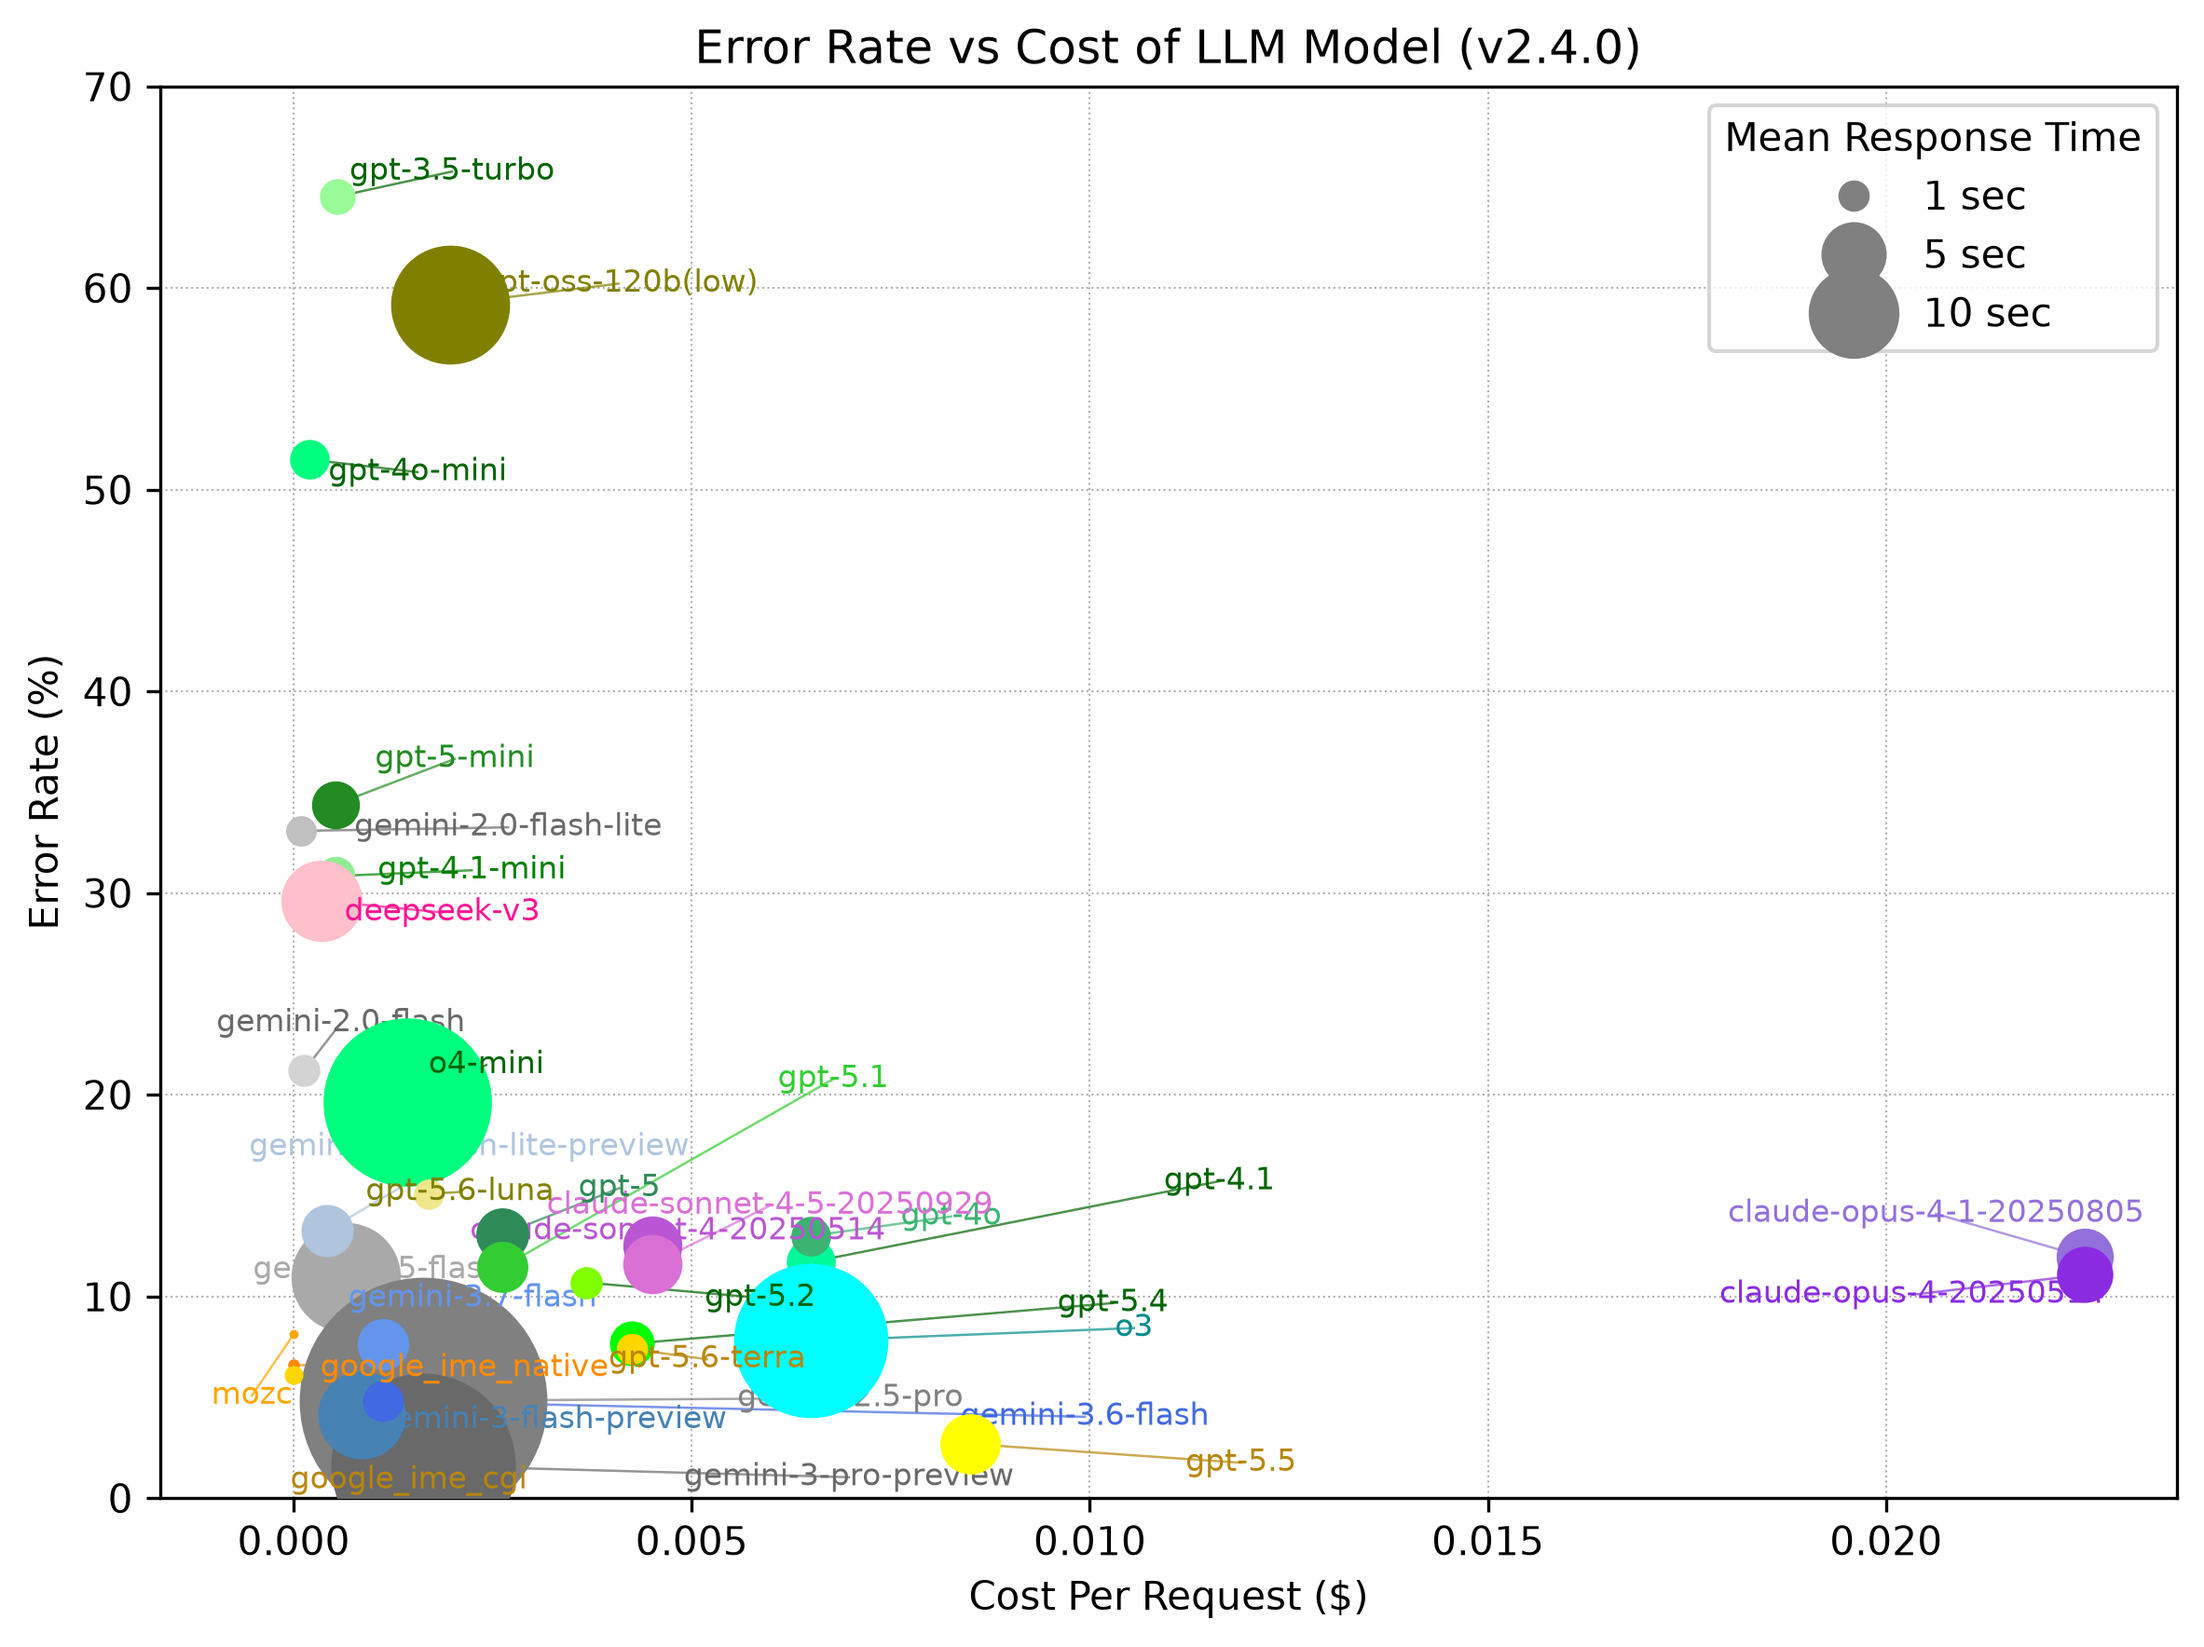
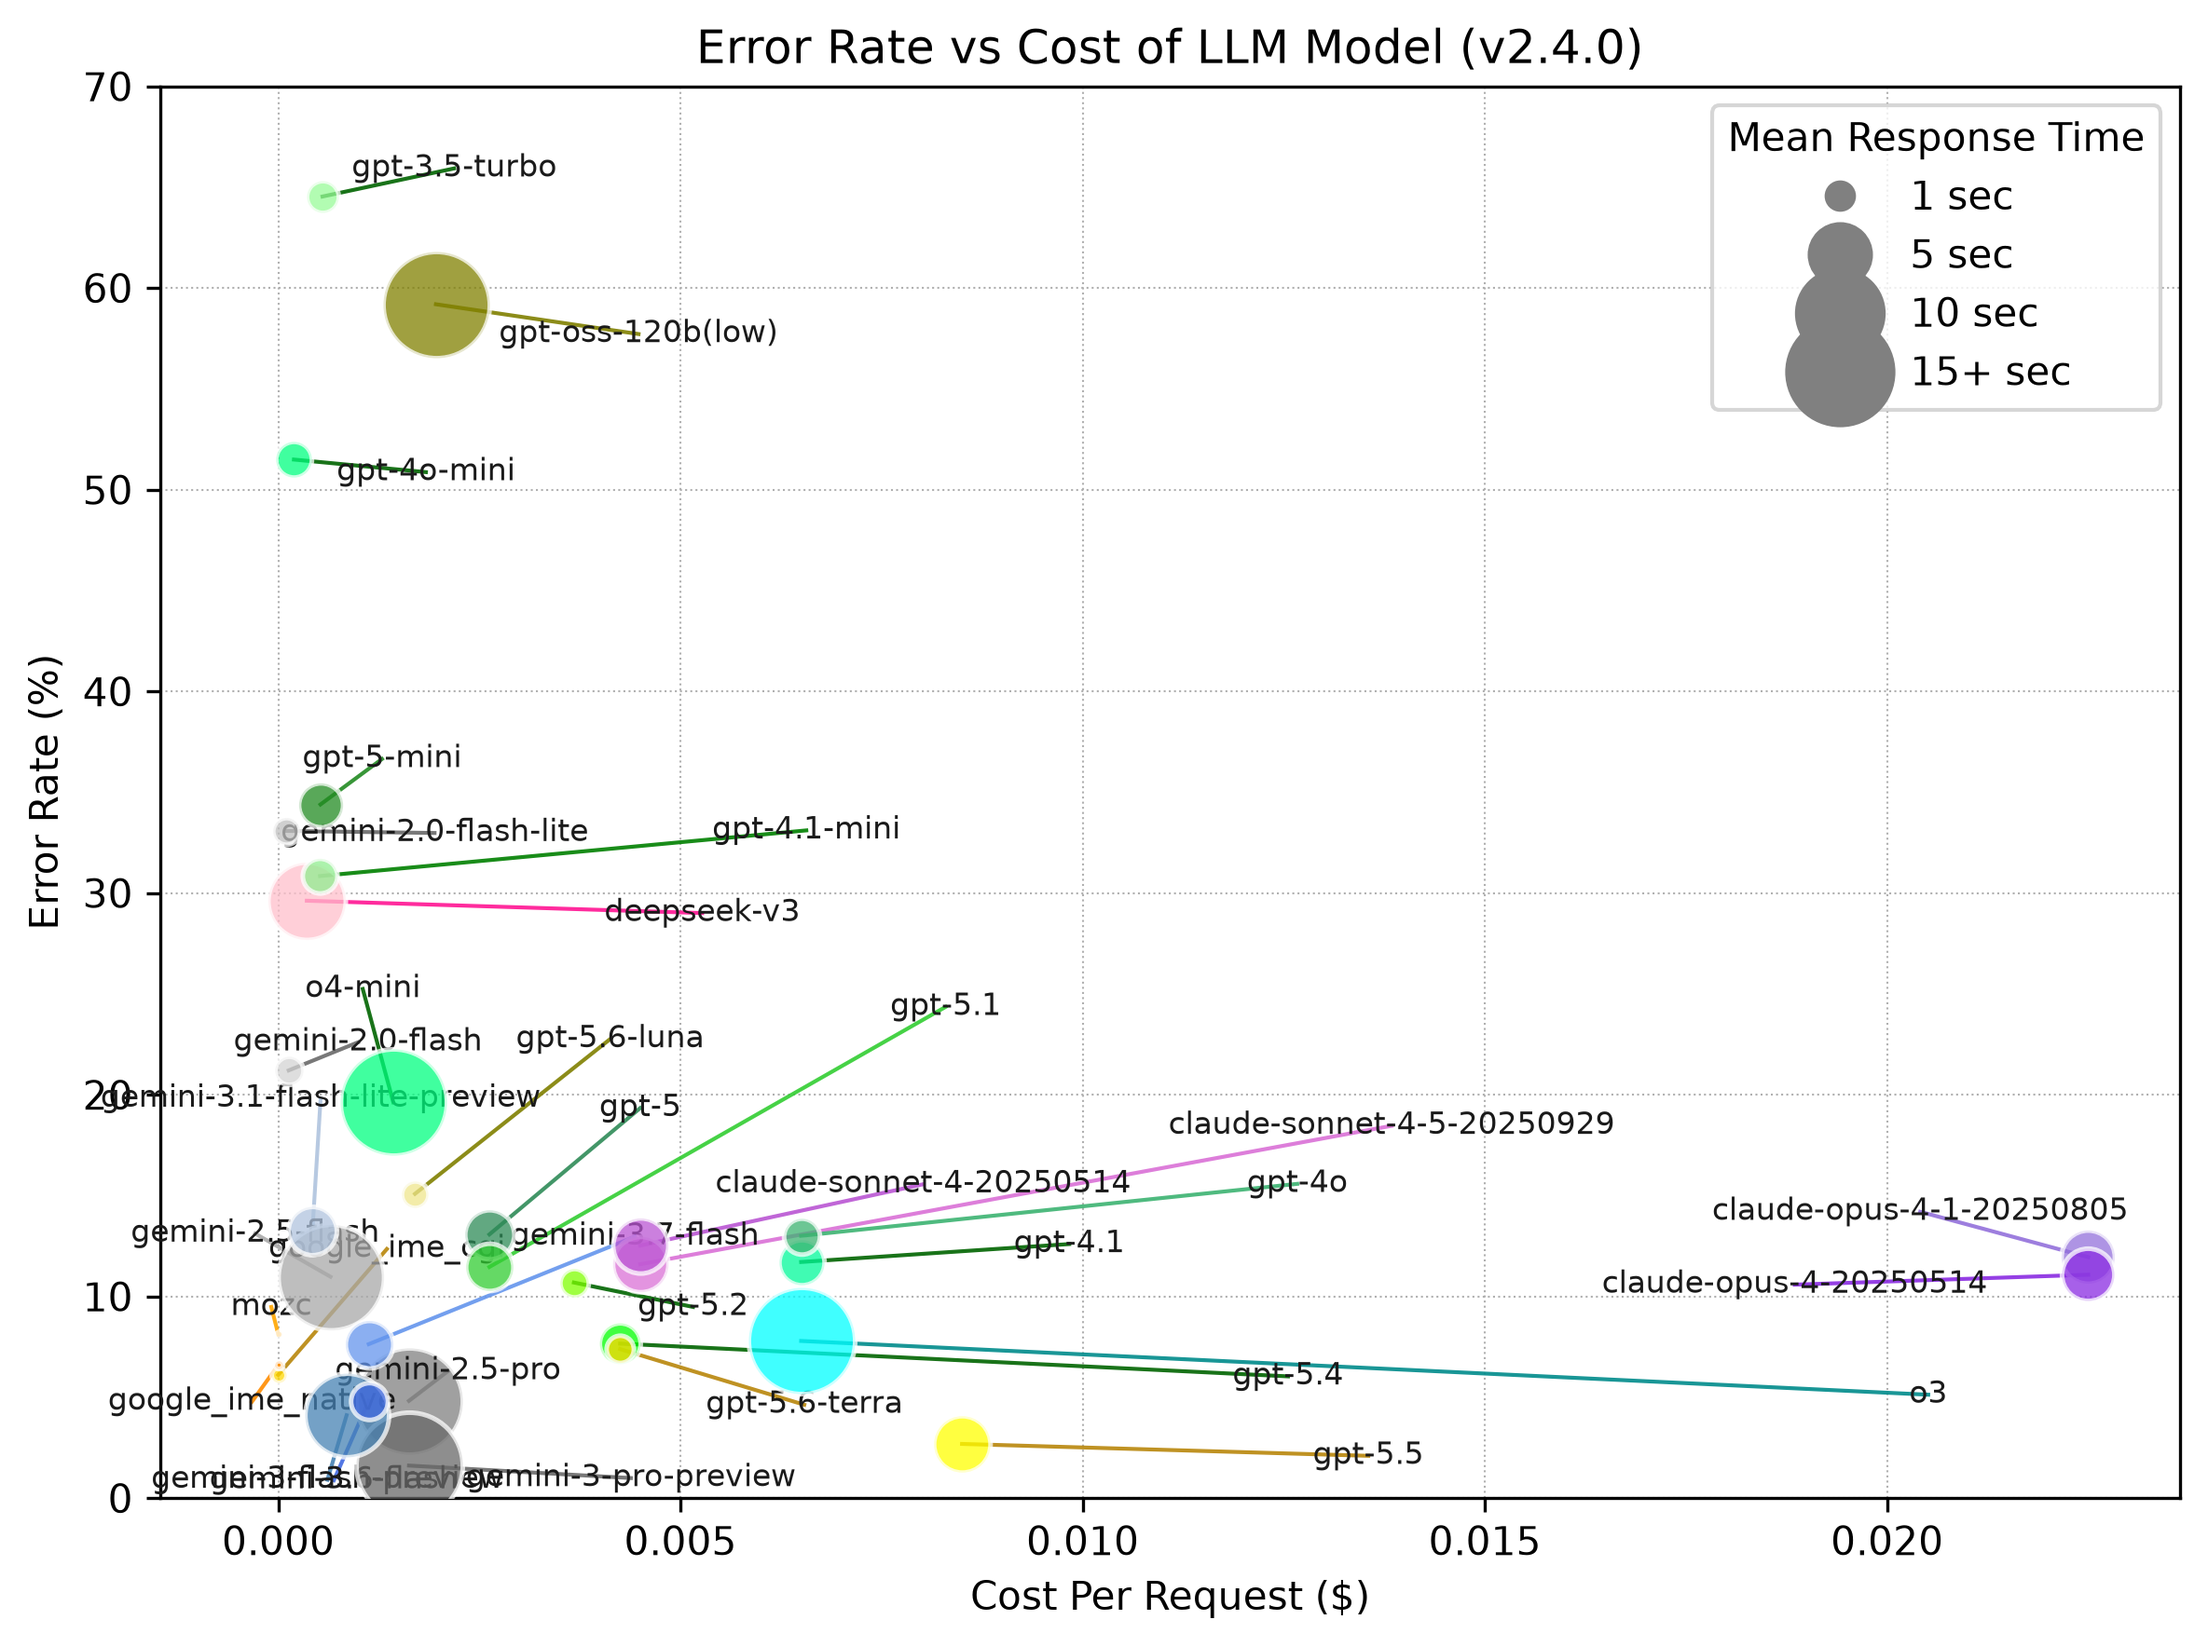
コスト vs エラー率のプロットで円が重なって見えない問題を修正 (Issue #175)
原因は4つあった。

1. 描画順が辞書順で、大きい円が後から小さい円を覆い隠していた
   → 応答時間の降順にソートし、大きい円から先に描く

2. 円が不透明で重なった部分が見えなかった
   → alpha=0.75 にし、白いリングで隣接する円の境界を分離

3. 円サイズのダイナミックレンジが 0.9秒〜78.9秒 (88倍) と過大で、
   最も遅いモデルの円が周囲を飲み込んでいた
   → 15秒で頭打ちにし、凡例に "15+ sec" と明示

4. adjustText 1.4.0 で廃止された expand_points / force_points を
   渡しており、ラベル位置の調整が事実上無効化されていた
   → 現行APIに書き換え、マーカー座標を渡してラベルが円を避けるようにした

あわせてラベル文字色をモデル色から濃いインク色に統一した。palegreen 等の
明るい色は白背景で判読できないため。円との対応付けは接続線が担う。

なお全体表示の左側の密集は、コストが $0.0001〜$0.0225 と230倍の幅を持つ
ことに起因する。対数軸も試したが、mozc / google_ime_* はコスト $0.0 の
ためプロットできず消えてしまうので採用していない。

diff --git a/benchmark/plot_errorrate_vs_cost.py b/benchmark/plot_errorrate_vs_cost.py
@@ -160,6 +160,15 @@ DATA_V24: Dict[str, Dict[str, float]] = {
 # 適用する円のサイズスケール
 SCALE = 50  # size = elapsed * SCALE
 
+# モデル名ラベルの文字色（円の色とは独立させ、白背景での可読性を確保する）
+LABEL_INK = "#1a1a1a"
+
+# 円の大きさの上限（秒）。
+# 応答時間は 0.9秒〜78.9秒 と 88倍の開きがあり、面積で素直に表すと
+# 最も遅いモデルの円が周囲のモデルを覆い隠してしまう（Issue #175）。
+# 凡例も 10秒 までしか示していないため、それを超えた分は頭打ちにする。
+SIZE_CAP_SEC = 15.0
+
 
 def plot_version(
     data: Dict[str, Dict[str, float]],
@@ -177,31 +186,49 @@ def plot_version(
     x_range / y_range を指定すると、範囲外の点はラベルを付けない
     （散布図マーカー自体はプロットするが、adjustText の対象から外す）。
     ラベルは adjustText で重なりを回避する。
-    戻り値: (texts, label_info) — label_info は [(text, marker_x, marker_y, color), ...] で、
-    adjust_text 後にマーカーとラベルを結ぶ接続線をモデル色で描画するために使う。
+    戻り値: (texts, label_info, marker_xy)
+      label_info: [(text, marker_x, marker_y, color), ...]
+        adjust_text 後にマーカーとラベルを結ぶ接続線をモデル色で描画するために使う。
+      marker_xy: [(x, y), ...] 描画した全マーカーの座標。
+        adjust_text に渡してラベルが円の上に乗らないようにする。
     """
     texts: List = []
     label_info: List = []
-    for model, metrics in data.items():
-        cost = MASTER_COST.get(model)
-        if cost is None:
-            # コスト情報が無ければ描かない
-            continue
+    marker_xy: List = []
+
+    # 応答時間が長い（＝円が大きい）モデルから先に描く。
+    # 後から描いた小さい円が前面に来るので、大きい円に飲み込まれて消えなくなる。
+    plottable = [
+        (model, metrics)
+        for model, metrics in data.items()
+        if MASTER_COST.get(model) is not None
+    ]
+    plottable.sort(key=lambda kv: kv[1]["elapsed"], reverse=True)
+
+    for idx, (model, metrics) in enumerate(plottable):
+        cost = MASTER_COST[model]
 
         cer_pct = metrics["cer"] * 100  # 0.25 -> 25%
-        size = metrics["elapsed"] * SCALE
+        size = min(metrics["elapsed"], SIZE_CAP_SEC) * SCALE
         color = COLOR_MAP.get(model, "blue")
+        marker_xy.append((cost, cer_pct))
+        # 大きい円ほど下に敷く（同一 zorder 帯の中で重なり順を細かく制御する）
+        z = zorder + idx / (len(plottable) + 1)
 
         if face_filled:
-            # v2.4.0 (濃い塗りつぶし)
+            # v2.4.0 (塗りつぶし)
+            # 塗りは半透明にして重なった円も透けて見えるようにし、
+            # 白いリングで隣接する円との境界を分離する（塗り自体の色は保つ）。
             plt.scatter(
                 cost,
                 cer_pct,
                 s=size,
-                color=color,
+                facecolors=color,
+                edgecolors="white",
+                linewidths=1.2,
                 alpha=alpha,
-                label=version_label if model == next(iter(data)) else None,  # 最初の一度だけ凡例
-                zorder=zorder,
+                label=version_label if idx == 0 else None,  # 最初の一度だけ凡例
+                zorder=z,
             )
         else:
             # v2.3.0 (薄い枠線のみ or塗り無し)
@@ -212,8 +239,8 @@ def plot_version(
                 facecolors="none",
                 edgecolors=color,
                 alpha=alpha,
-                label=version_label if model == next(iter(data)) else None,
-                zorder=zorder,
+                label=version_label if idx == 0 else None,
+                zorder=z,
             )
 
         # モデル名の注釈（adjustText で後で位置調整するため、Text オブジェクトを蓄積）
@@ -227,12 +254,14 @@ def plot_version(
             if y_range is not None and not (y_range[0] <= cer_pct <= y_range[1]):
                 in_range = False
             if in_range:
-                text_color = _darken_for_readability(color)
-                t = plt.text(cost, cer_pct, model, fontsize=8, color=text_color, clip_on=False)
+                # ラベル本文は一律の濃いインク色にする。
+                # 明るいモデル色をそのまま文字に使うと白背景で読めなくなるため、
+                # 円との対応付けは下で引く「モデル色の接続線」に任せる。
+                t = plt.text(cost, cer_pct, model, fontsize=8, color=LABEL_INK, clip_on=False)
                 texts.append(t)
-                label_info.append((t, cost, cer_pct, text_color))
+                label_info.append((t, cost, cer_pct, _darken_for_readability(color)))
 
-    return texts, label_info
+    return texts, label_info, marker_xy
 
 
 # ---------------------------------------------------------------------------
@@ -265,10 +294,12 @@ def build_legend():
     """平均応答時間の凡例を描画"""
 
     # 平均応答時間凡例（円サイズ）
-    seconds_legend = [1, 5, 10]
+    # 最後の項目は頭打ちであることを明示する（Issue #175 でサイズ上限を導入したため）
+    seconds_legend = [1, 5, 10, SIZE_CAP_SEC]
     legend_size_handles: List[Line2D] = []
     for sec in seconds_legend:
         size = sec * SCALE
+        capped = sec >= SIZE_CAP_SEC
         legend_size_handles.append(
             Line2D(
                 [],
@@ -277,7 +308,7 @@ def build_legend():
                 color="gray",
                 linestyle="None",
                 markersize=size ** 0.5,  # matplotlib は points 単位。scatter の s は points^2
-                label=f"{sec} sec",
+                label=f"{sec:.0f}+ sec" if capped else f"{sec:.0f} sec",
             )
         )
 
@@ -309,10 +340,10 @@ def main():
         y_range = (0.0, 70.0)
 
     # v2.4.0 — 濃い塗りつぶし円（ラベルあり）
-    texts, label_info = plot_version(
+    texts, label_info, marker_xy = plot_version(
         DATA_V24,
         "v2.4.0",
-        alpha=1.0,
+        alpha=0.75,
         face_filled=True,
         zorder=3,
         annotate=True,
@@ -351,12 +382,19 @@ def main():
     # ラベルの重なりを adjustText で回避
     # 軸範囲を確定してから呼ぶ必要があるため、この位置で実行
     # adjustText の arrowprops は全ラベル共通なので使わず、後で自前で色付き接続線を描画する
+    # x / y にマーカー座標を渡すと、ラベルはテキスト同士だけでなく円も避ける。
+    # （adjustText 1.x で expand_points / force_points は廃止されており、
+    #   旧パラメータ名を渡しても無視されてラベルが円に重なっていた）
     adjust_text(
         texts,
-        expand_points=(1.4, 1.4),
-        expand_text=(1.2, 1.2),
-        force_text=(0.5, 0.5),
-        force_points=(0.3, 0.3),
+        x=[p[0] for p in marker_xy],
+        y=[p[1] for p in marker_xy],
+        force_text=(0.4, 0.6),
+        force_static=(0.3, 0.5),
+        expand=(1.25, 1.5),
+        max_move=(40, 40),
+        min_arrow_len=0,
+        time_lim=15,
     )
 
     # マーカーと移動後のラベルを結ぶ接続線をモデル色で描画
@@ -369,12 +407,13 @@ def main():
         # データ座標での差分で十分（重ならないラベルは adjustText が離すはず）
         if abs(text_x - marker_x) < 1e-9 and abs(text_y - marker_y) < 1e-9:
             continue
+        # 接続線がラベルの識別チャネルになるので、細すぎると色が判別できない
         ax.plot(
             [marker_x, text_x],
             [marker_y, text_y],
             color=color,
-            lw=0.6,
-            alpha=0.7,
+            lw=1.0,
+            alpha=0.9,
             zorder=2,
         )
 
